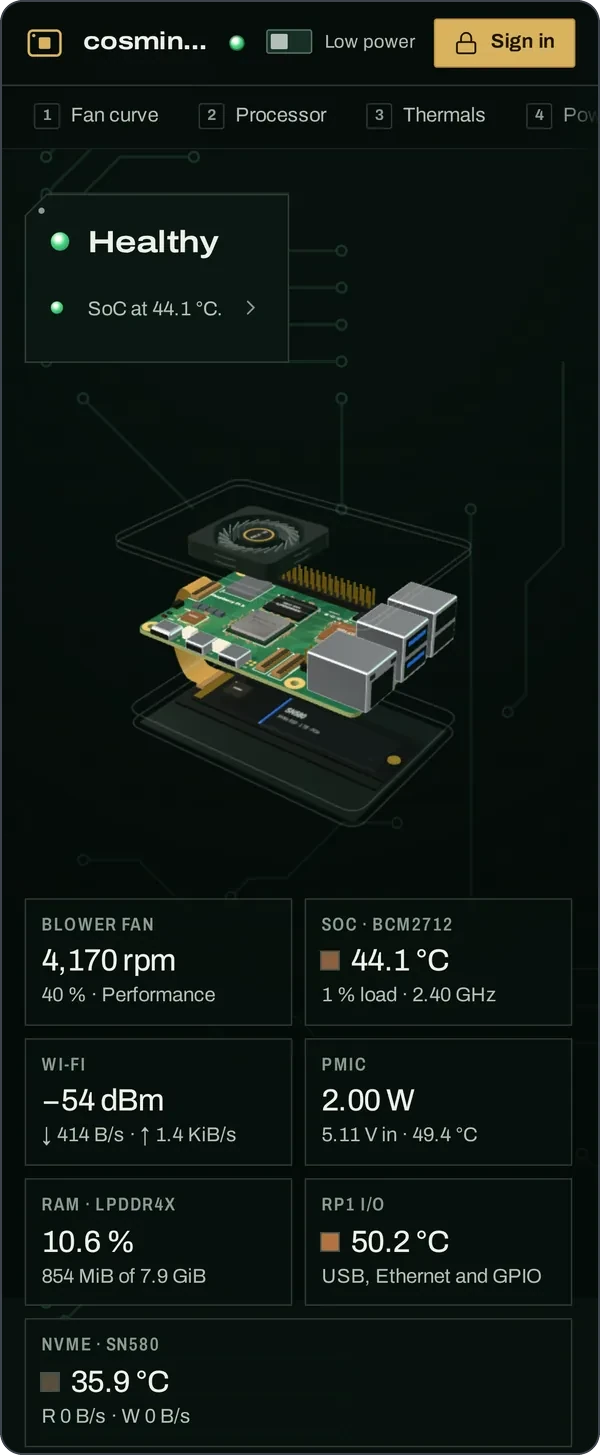
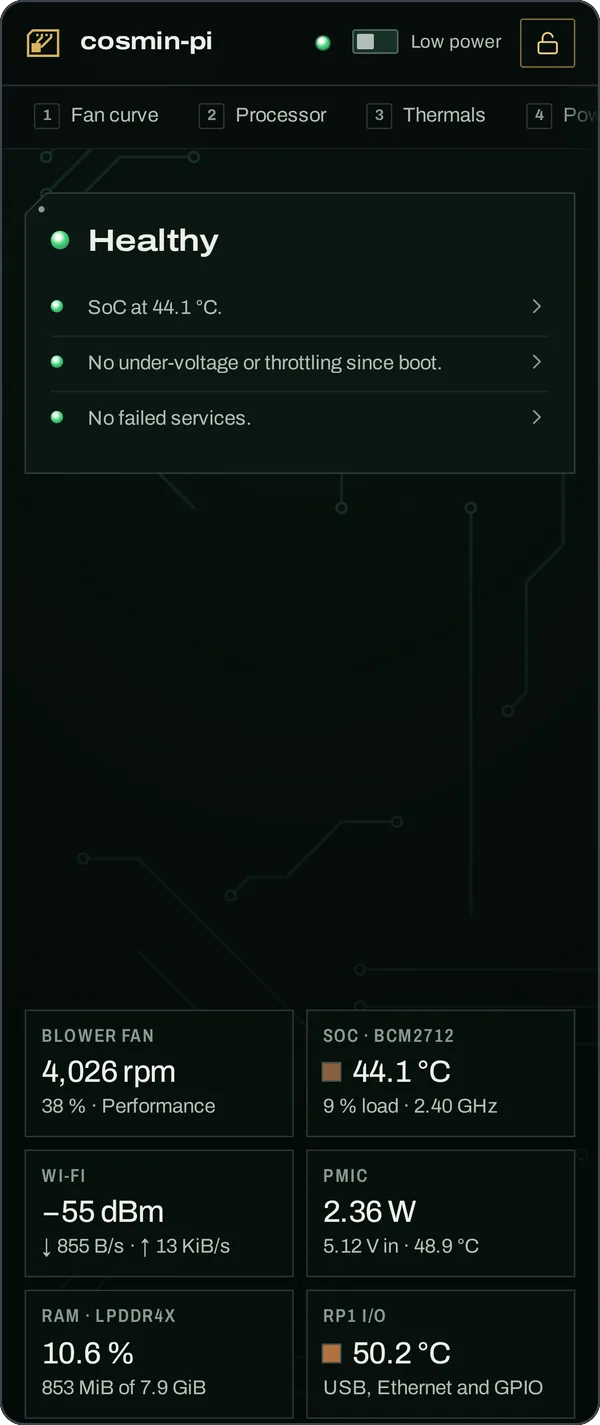
docs: README plan R1-R5, R7: new mark, refreshed captures, inline tour, how it works, poster footer
- R1: the A1 mark (docs/images/mark.svg) at 88 px replaces the favicon.
- R2/A3: hero, phone, low-power, services and fan-curve re-captured from
  the real Pi with the current build: signed in, Healthy with its three
  reasons, full hostname on the phone. The hero's alt text names them.
- R3/A4: docs/images/tour.webp (800x500, 12 fps, 10 s, 1.0 MB) replaces the
  3.1 MB tour.gif: sway, drag, the SoC callout lit, a click on Silent. It
  heads "A closer look", and the hero caption and NOTES.md point at it.
- R4: "How it works", a 4-node flowchart and three plain bullets.
- R5: the A2 poster and one star link above the License.
- R7: the unreferenced docs/screenshots files and tour.gif are removed;
  live-pi.png stays (NOTES.md links it).
- docs/images/src/readme.mjs rebuilds A3 and A4 in one command each and
  frames each file once. docs/assets-manifest.md lists them.

No banner (plan R8). Checked through GitHub's markdown API at 1280 px in
light and dark: no broken anchors or local refs, every image decodes,
the Mermaid chart renders, gallery rows share their edges.

diff --git a/README.md b/README.md
@@ -1,6 +1,6 @@
 <div align="center">
 
-<img src="frontend/public/favicon.svg" width="96" alt="">
+<img src="docs/images/mark.svg" width="88" alt="">
 
 # pidash
 
@@ -19,9 +19,9 @@ service restarts and a terminal. Open it from your phone or laptop, privately, o
 
 <br>
 
-![pidash on a real Raspberry Pi 5: an exploded 3D model of the board with live readings pinned to the fan, SoC, RAM, PMIC, Wi-Fi, RP1 and NVMe drive, next to the health verdict and the fan card](docs/images/hero.webp)
+![pidash on a real Raspberry Pi 5: an exploded 3D model of the board with live readings pinned to the fan, SoC, RAM, PMIC, Wi-Fi, RP1 and NVMe drive, next to the verdict, Healthy, with its three reasons (the SoC temperature, no under-voltage or throttling since boot, no failed services), and the fan card](docs/images/hero.webp)
 
-<p align="center"><sub>Real data from a Pi 5. The 3D board turns when you drag it (<a href="docs/screenshots/tour.gif">see it move</a>).</sub></p>
+<p align="center"><sub>Real data from a Pi 5. The 3D board turns when you drag it (<a href="docs/images/tour.webp">see it move</a>).</sub></p>
 
 ## Features
 
@@ -50,6 +50,11 @@ service restarts and a terminal. Open it from your phone or laptop, privately, o
 
 ### A closer look
 
+<table>
+  <tr>
+    <td valign="top"><img src="docs/images/tour.webp" width="797" alt="A 10-second loop in the demo: the 3D board sways, a drag turns it, the pointer lights the SoC callout, and a click switches the fan profile from Balanced to Silent"><br><sub>Drag the board, point at a reading to light its part, pick a fan profile. (Demo data)</sub></td>
+  </tr>
+</table>
 <table>
   <tr>
     <td valign="top"><img src="docs/images/services.webp" width="389" alt="The Services card: search, filters and a table of systemd services, each row with a logs and a restart button"><br><sub>Every service, with <b>logs</b> and <b>restart</b> on each row</sub></td>
@@ -209,6 +214,23 @@ ssh -L 8787:127.0.0.1:8787 pi@raspberrypi.local
 Leave that running and open <http://localhost:8787>. If port 8787 is taken on your computer, use
 `-L 18787:127.0.0.1:8787` and open <http://localhost:18787>. Installed Tailscale later? Once it's connected, run
 `sudo ./install.sh` again and it shares the dashboard on your tailnet.
+
+## How it works
+
+```mermaid
+flowchart TD
+  pi["Sensors,<br/>systemd, Docker"] --> app["pidash<br/>on the Pi"]
+  app -->|"live, 1 Hz"| web["Your browser<br/>on the tailnet"]
+  web -->|"with the token"| act["Fan, updates,<br/>reboot, console"]
+  act --> app
+```
+
+- **pidash runs on the Pi** as a small service. It reads the sensors, systemd and Docker, keeps the last 10 minutes
+  of readings, and drives the fan, with or without a browser open.
+- **Your browser gets the readings live**, about once a second over one WebSocket. Only devices in your tailnet
+  can reach it.
+- **Looking needs no sign-in.** The fan, updates, reboot, shut down, service restarts, service logs and the console
+  need your token. The Pi does the work, and the dashboard shows the result.
 
 ## Configuration
 
@@ -428,7 +450,10 @@ header says how to run it.
 
 </details>
 
+<p align="center"><img src="docs/images/poster.webp" width="640" alt="pidash: an exploded 3D model of a Raspberry Pi 5 in an Argon NEO 5 case, beside the pidash wordmark and the tagline Mission control for your Raspberry Pi 5."></p>
+
+<p align="center">If pidash runs your Pi, <a href="https://github.com/cosminfuica/raspberrypi-dashboard">give it a ⭐ on GitHub</a>.</p>
+
 ## License
 
-[MIT](LICENSE). Made for a Pi 5 on a desk. If pidash makes yours feel like mission control,
-[give it a ⭐ on GitHub](https://github.com/cosminfuica/raspberrypi-dashboard).
+[MIT](LICENSE). Made for a Pi 5 on a desk.

diff --git a/docs/assets-manifest.md b/docs/assets-manifest.md
@@ -80,13 +80,30 @@ Prompt, as in the plan:
 
 **Cost.** Recraft: 5 images at $0.21 each, $1.05. Flare: 2 images, billed per token. The API's estimate returns only the rate card, not a figure.
 
+## A3 and A4. README screenshots and tour
+
+Captured, not generated, on 2026-09-30 for t_00607910 by `docs/images/src/readme.mjs`:
+
+| File | Size | Bytes | What |
+|---|---|---|---|
+| `docs/images/hero.webp` | 1600×1000 | 81,822 | The real Pi, 1440×900 @2x, signed in (ghost Sign out), Healthy with M4's three rows. |
+| `docs/images/phone.webp` | 600×1425 | 31,488 | The real Pi at 390 px @3x, cut below the third row of reading tiles. |
+| `docs/images/low-power.webp` | 1600×1000 | 69,958 | The real Pi in low power, M7's assembly drawing. |
+| `docs/images/services.webp` | 900×1135 | 60,032 | The real Pi's Services card, 16 rows. |
+| `docs/images/fan-curve.webp` | 1600×686 | 45,852 | The real Pi's curve editor (H3 field borders). |
+| `docs/images/tour.webp` | 800×500 | 1,032,840 | Animated, 12 fps, 10 s loop, from `?demo&healthy`: sway, drag, the SoC callout lit, a click on Silent. Replaces the 3.1 MB `docs/screenshots/tour.gif`. |
+
+- The page is this checkout's `frontend/dist`, served under the Pi's origin, so every reading is the Pi's own. No token is used: the script answers `GET /api/auth` "signed in" and `GET /api/system/update` idle.
+- Each file is captured and framed in one pass (2 px `#3f444e`, rounded alpha corners), so nothing is framed twice.
+- `system` and `service-logs` keep their old captures: no code item changed them. `console` does too: a fresh one needs a signed-in shell on the Pi, and the only change there is H3's brighter well border.
+- **Rebuild:** `npm run build` in `frontend/`, then, from a directory with `npm i --no-save playwright@1.63.0`: `node <repo>/docs/images/src/readme.mjs shots` (the Pi must be reachable) and `node <repo>/docs/images/src/readme.mjs tour`. It needs ImageMagick and ffmpeg with libwebp, and uses the GPU (SwiftShader draws the tour at about 12 fps).
+
 ## For the next cards
 
 - **t_504745a8 (done):**
   - The web set is in `frontend/public`, and the header mark is inline in `index.html` at 24 px. At 2× every edge of the mark lands on a whole device pixel.
   - No OG or Twitter tags (plan, section 3).
-- **t_00607910:**
-  - R1: `docs/images/mark.svg` at `width="88"`.
-  - R5: `docs/images/poster.webp` at `width="640"`, with the alt text from the plan's A2.
-  - R6: the owner uploads `docs/images/social-preview.png`.
+- **t_00607910 (done):**
+  - R1–R5 and R7 are in the README; A3 and A4 are above.
+  - R6 is the owner's: upload `docs/images/social-preview.png`, and add repo topics.
   - There is no README banner. The plan decides against one (R8), although the card body asks for it.

diff --git a/NOTES.md b/NOTES.md
@@ -48,7 +48,7 @@ Checked in headless Chromium on the desktop GPU against the mock backend, and ag
 - **Fan card and curve editor.**
   - Under the kernel curve the saved profile is outlined and marked "saved", not shown as running. "Changes are off" appears above the profiles.
   - The editor's buttons line up in two columns. The drag tooltip stays readable over the curves, the help text is shorter per line, and only the handle you hold is ringed.
-- **New:** a 10-second tour, `docs/screenshots/tour.gif`. Every screenshot is refreshed; `live-pi.png` shows your Pi.
+- **New:** a 10-second tour, now `docs/images/tour.webp`. Every screenshot is refreshed; `live-pi.png` shows your Pi.
 
 **Left as is**
 
